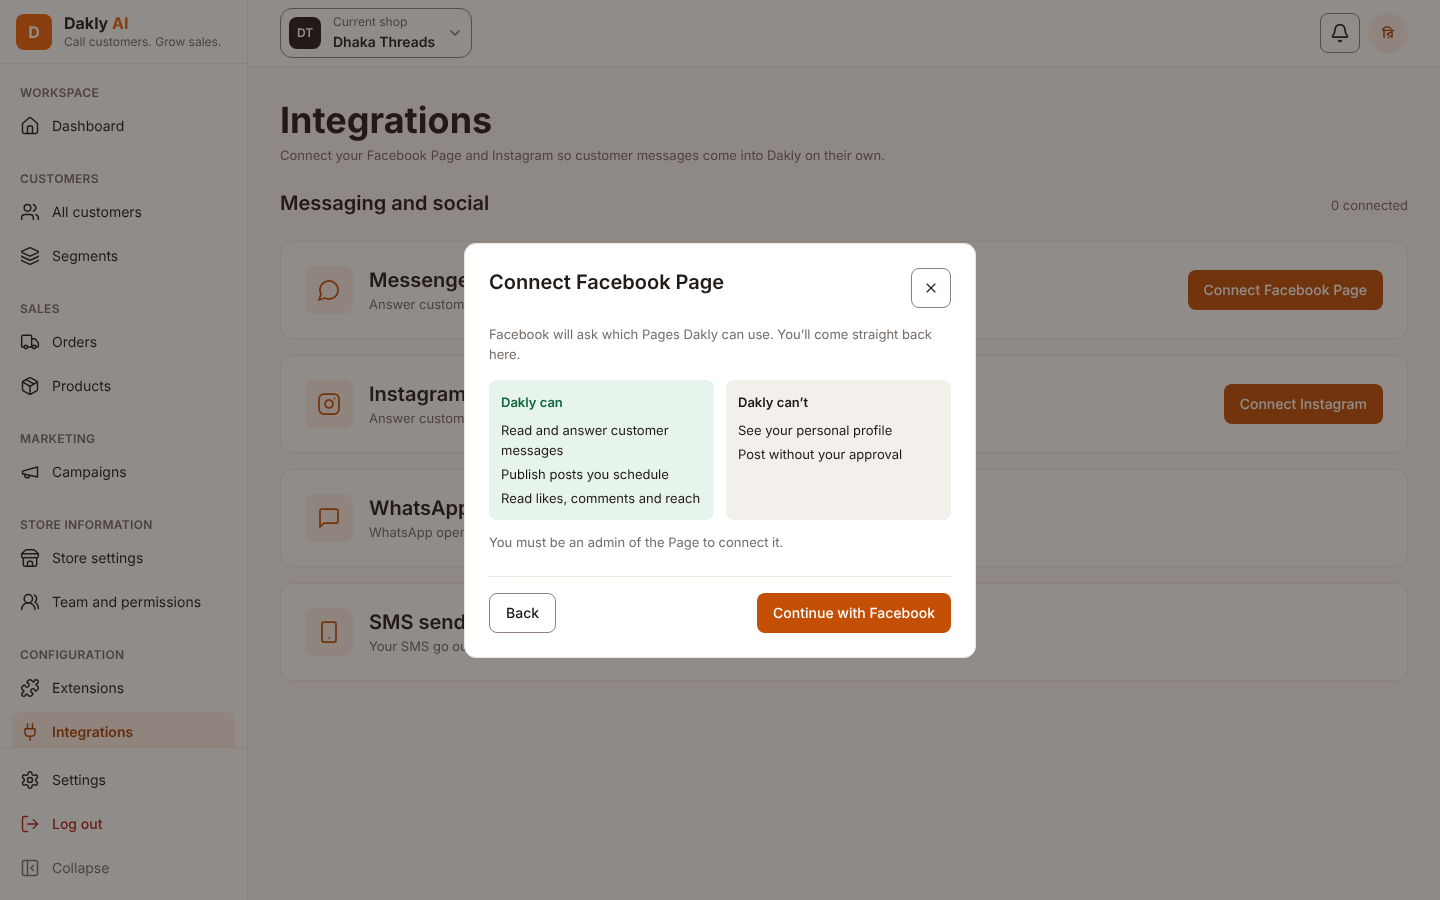
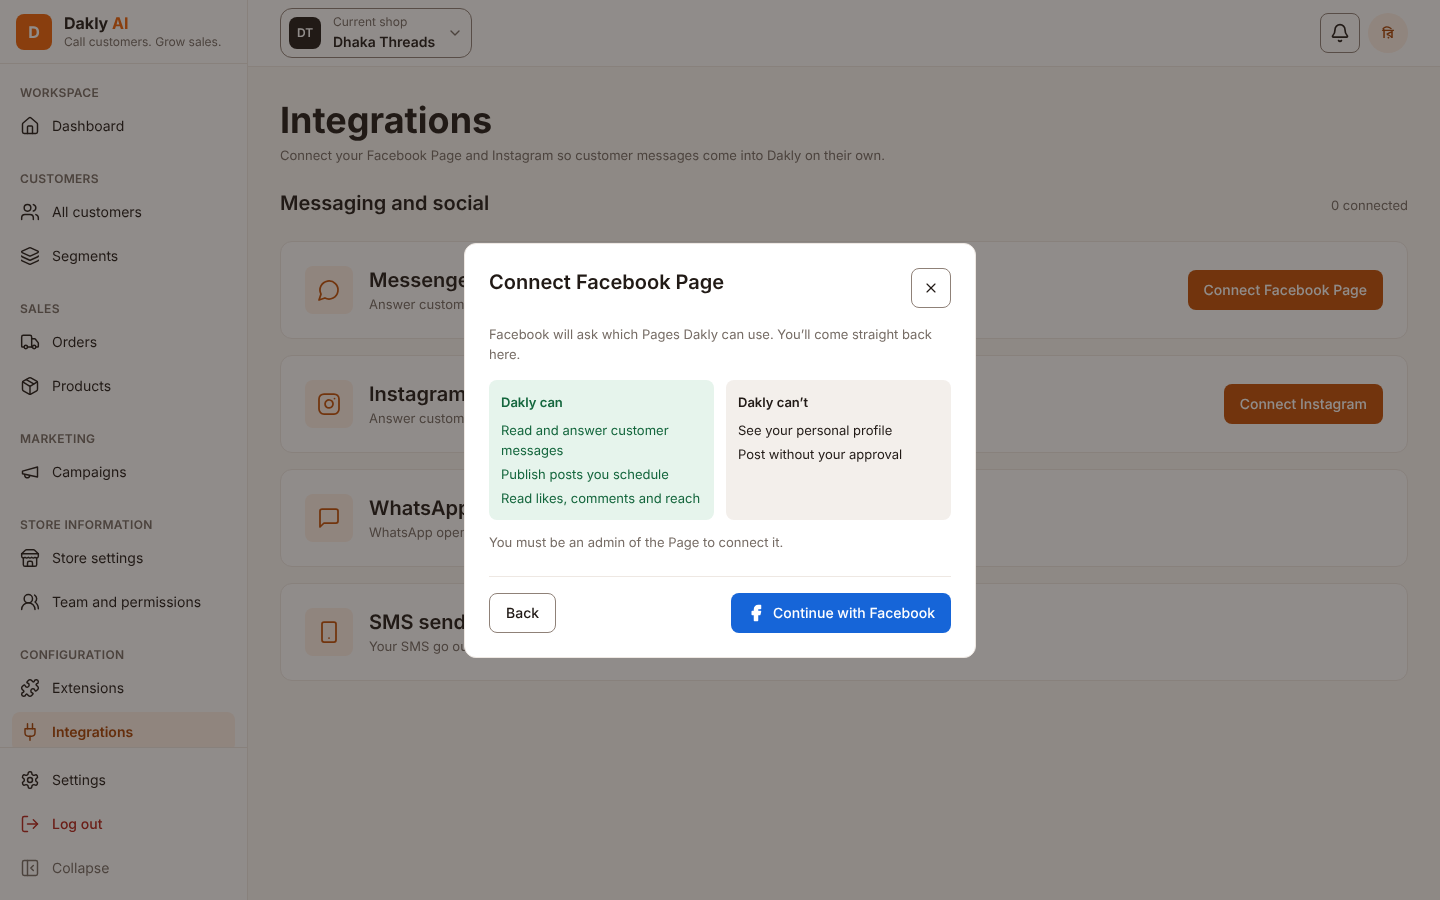
feat(chn-5): style the Facebook button and permissions as designed and close the Facebook window with the dialog

Changed region(s): [[0.5, 0.6533, 0.6875, 0.7156], [0.3438, 0.4667, 0.4688, 0.56]]

diff --git a/apps/web/src/features/integrations/components/meta-connect-dialog.spec.tsx b/apps/web/src/features/integrations/components/meta-connect-dialog.spec.tsx
@@ -1,0 +1,72 @@
+// @vitest-environment jsdom
+import { QueryClient, QueryClientProvider } from '@tanstack/react-query';
+import { cleanup, render, screen } from '@testing-library/react';
+import userEvent from '@testing-library/user-event';
+import { afterEach, beforeEach, expect, it, vi } from 'vitest';
+
+import { MetaConnectDialog } from './meta-connect-dialog';
+import { sessionContextKey } from '@/lib/session-context';
+
+beforeEach(() => {
+  HTMLDialogElement.prototype.showModal = function (this: HTMLDialogElement) {
+    this.setAttribute('open', '');
+  };
+  HTMLDialogElement.prototype.close = function (this: HTMLDialogElement) {
+    this.removeAttribute('open');
+  };
+});
+afterEach(() => {
+  cleanup();
+  vi.unstubAllGlobals();
+});
+
+it('closes the Facebook window when the shop leaves the waiting dialog', async () => {
+  const facebook = { closed: false, close: vi.fn(), location: { href: '' } };
+  vi.stubGlobal('open', () => facebook);
+  vi.stubGlobal('fetch', async () =>
+    Response.json(
+      { authorizationUrl: 'https://facebook.test/login' },
+      { headers: { 'x-session-context': 'verified' } },
+    ),
+  );
+  const client = new QueryClient({ defaultOptions: { queries: { retry: false } } });
+  client.setQueryData(sessionContextKey, {
+    contextTag: 'verified',
+    currentStore: { canEditStoreSettings: true },
+  });
+  const onClose = vi.fn();
+  const view = render(
+    <QueryClientProvider client={client}>
+      <MetaConnectDialog
+        kind="facebook_page"
+        connections={[]}
+        onClose={onClose}
+        onConnected={vi.fn()}
+      />
+    </QueryClientProvider>,
+  );
+  const user = userEvent.setup();
+  await user.click(screen.getByRole('button', { name: 'Continue with Facebook' }));
+  await screen.findByText('Finish in the Facebook window, then come back here.');
+  expect(facebook.location.href).toBe('https://facebook.test/login');
+  expect(facebook.close).not.toHaveBeenCalled();
+  view.unmount();
+  expect(facebook.close).toHaveBeenCalledOnce();
+});
+
+it('shows the Continue with Facebook button in the Facebook colour', () => {
+  const client = new QueryClient();
+  render(
+    <QueryClientProvider client={client}>
+      <MetaConnectDialog
+        kind="instagram"
+        connections={[]}
+        onClose={vi.fn()}
+        onConnected={vi.fn()}
+      />
+    </QueryClientProvider>,
+  );
+  const button = screen.getByRole('button', { name: 'Continue with Facebook' });
+  expect(button.className).toContain('bg-facebook');
+  expect(button.className).not.toContain('bg-action');
+});

diff --git a/apps/web/src/features/integrations/components/meta-connect-dialog.tsx b/apps/web/src/features/integrations/components/meta-connect-dialog.tsx
@@ -1,4 +1,4 @@
-import { Loader2 } from 'lucide-react';
+import { Facebook, Loader2 } from 'lucide-react';
 
 import type { ChannelConnection } from '@dakly/contracts/channels';
 import { Button } from '@dakly/ui/button';
@@ -62,7 +62,12 @@ export function MetaConnectDialog(props: MetaConnectDialogProps) {
         <Button variant="secondary" onClick={onClose}>
           Back
         </Button>
-        <Button loading={login.starting} onClick={login.continueWithFacebook}>
+        <Button
+          className="bg-facebook hover:bg-facebook-hover"
+          loading={login.starting}
+          onClick={login.continueWithFacebook}
+        >
+          <Facebook aria-hidden="true" size={18} strokeWidth={2} fill="currentColor" />
           Continue with Facebook
         </Button>
       </div>
@@ -75,7 +80,7 @@ function Permissions() {
     <div className="mt-4 grid gap-3 sm:grid-cols-2">
       <div className="rounded-md bg-success-soft p-3">
         <p className="text-sm font-semibold text-success">Dakly can</p>
-        <ul className="mt-2 space-y-1 text-sm">
+        <ul className="mt-2 space-y-1 text-sm text-success">
           <li>Read and answer customer messages</li>
           <li>Publish posts you schedule</li>
           <li>Read likes, comments and reach</li>

diff --git a/apps/web/src/features/integrations/hooks/use-meta-login.ts b/apps/web/src/features/integrations/hooks/use-meta-login.ts
@@ -17,6 +17,9 @@ export function useMetaLogin() {
   const list = useListMetaAccounts();
   const { mutate: listAccounts } = list;
 
+  // Leaving the dialog, by any route, closes the window Facebook is still showing.
+  useEffect(() => () => facebook.current?.close(), []);
+
   useEffect(() => {
     if (step !== 'waiting') return;
     const back = (message: string) => {

diff --git a/packages/ui/src/theme.css b/packages/ui/src/theme.css
@@ -26,6 +26,8 @@
   --color-danger-soft: #fdecea;
   --color-info: #1f4fa3;
   --color-info-soft: #e4ecfa;
+  --color-facebook: #1665d8;
+  --color-facebook-hover: #1255b3;
   --color-ai: #7a2b8a;
   --color-ai-soft: #f1e3f6;
 

diff --git a/docs/design/theme.md b/docs/design/theme.md
@@ -4,36 +4,38 @@ The tokens Dakly's web app is built from. Values were measured from the design p
 
 ## Colour
 
-| Token                   | Light     | Use                                                         |
-| ----------------------- | --------- | ----------------------------------------------------------- |
-| `--color-background`    | `#FAF9F5` | Page background                                             |
-| `--color-surface`       | `#FFFFFF` | Cards, panels, inputs                                       |
-| `--color-surface-muted` | `#F3EFEB` | Table headers, selected rows, quiet fills                   |
-| `--color-border`        | `#EEE8E3` | Decorative card borders                                     |
-| `--color-border-strong` | `#DDD7D2` | Decorative dividers only                                    |
-| `--color-text`          | `#211A16` | Body text, headings                                         |
-| `--color-text-muted`    | `#766C65` | Secondary text, labels, captions                            |
-| `--color-text-subtle`   | `#A79D96` | Disabled or decorative text only                            |
-| `--color-primary`       | `#F06306` | Decorative brand accent                                     |
-| `--color-primary-hover` | `#C24F04` | Brand text on white only                                    |
-| `--color-primary-soft`  | `#FEF0E6` | Active nav background, highlighted cards                    |
-| `--color-action`        | `#C24F04` | Interactive fills and link text on white or page background |
-| `--color-action-hover`  | `#A84303` | Primary button hover                                        |
-| `--color-focus`         | `#C24F04` | Focus outline on white or page background                   |
-| `--color-input-border`  | `#8F8178` | Essential input and secondary button boundaries             |
-| `--color-danger-hover`  | `#961D15` | Destructive button hover                                    |
-| `--color-on-primary`    | `#FFFFFF` | Text on primary                                             |
-| `--color-inverse`       | `#211A16` | Dark buttons (Ask Dakly AI, AI agent), toasts               |
-| `--color-success`       | `#14663D` | Positive change, "AI is handling", delivered                |
-| `--color-success-soft`  | `#E6F4EC` | Success badges and banners                                  |
-| `--color-warning`       | `#8A5A00` | Needs attention, running low                                |
-| `--color-warning-soft`  | `#FDF3DC` | Warning badges                                              |
-| `--color-danger`        | `#B4231A` | Errors, destructive actions, failed                         |
-| `--color-danger-soft`   | `#FDECEA` | Error banners                                               |
-| `--color-info`          | `#1F4FA3` | Neutral information, links in tables                        |
-| `--color-info-soft`     | `#E4ECFA` | Info badges                                                 |
-| `--color-ai`            | `#7A2B8A` | The AI badge and AI-written labels                          |
-| `--color-ai-soft`       | `#F1E3F6` | AI badge background                                         |
+| Token                    | Light     | Use                                                         |
+| ------------------------ | --------- | ----------------------------------------------------------- |
+| `--color-background`     | `#FAF9F5` | Page background                                             |
+| `--color-surface`        | `#FFFFFF` | Cards, panels, inputs                                       |
+| `--color-surface-muted`  | `#F3EFEB` | Table headers, selected rows, quiet fills                   |
+| `--color-border`         | `#EEE8E3` | Decorative card borders                                     |
+| `--color-border-strong`  | `#DDD7D2` | Decorative dividers only                                    |
+| `--color-text`           | `#211A16` | Body text, headings                                         |
+| `--color-text-muted`     | `#766C65` | Secondary text, labels, captions                            |
+| `--color-text-subtle`    | `#A79D96` | Disabled or decorative text only                            |
+| `--color-primary`        | `#F06306` | Decorative brand accent                                     |
+| `--color-primary-hover`  | `#C24F04` | Brand text on white only                                    |
+| `--color-primary-soft`   | `#FEF0E6` | Active nav background, highlighted cards                    |
+| `--color-action`         | `#C24F04` | Interactive fills and link text on white or page background |
+| `--color-action-hover`   | `#A84303` | Primary button hover                                        |
+| `--color-focus`          | `#C24F04` | Focus outline on white or page background                   |
+| `--color-input-border`   | `#8F8178` | Essential input and secondary button boundaries             |
+| `--color-danger-hover`   | `#961D15` | Destructive button hover                                    |
+| `--color-on-primary`     | `#FFFFFF` | Text on primary                                             |
+| `--color-inverse`        | `#211A16` | Dark buttons (Ask Dakly AI, AI agent), toasts               |
+| `--color-success`        | `#14663D` | Positive change, "AI is handling", delivered                |
+| `--color-success-soft`   | `#E6F4EC` | Success badges and banners                                  |
+| `--color-warning`        | `#8A5A00` | Needs attention, running low                                |
+| `--color-warning-soft`   | `#FDF3DC` | Warning badges                                              |
+| `--color-danger`         | `#B4231A` | Errors, destructive actions, failed                         |
+| `--color-danger-soft`    | `#FDECEA` | Error banners                                               |
+| `--color-info`           | `#1F4FA3` | Neutral information, links in tables                        |
+| `--color-info-soft`      | `#E4ECFA` | Info badges                                                 |
+| `--color-facebook`       | `#1665D8` | The Continue with Facebook button (white text, 5.4:1)       |
+| `--color-facebook-hover` | `#1255B3` | Hover fill of the Facebook button                           |
+| `--color-ai`             | `#7A2B8A` | The AI badge and AI-written labels                          |
+| `--color-ai-soft`        | `#F1E3F6` | AI badge background                                         |
 
 Channel colours (Messenger blue, WhatsApp green, Instagram gradient) appear only in channel icons, never as UI colours.
 
